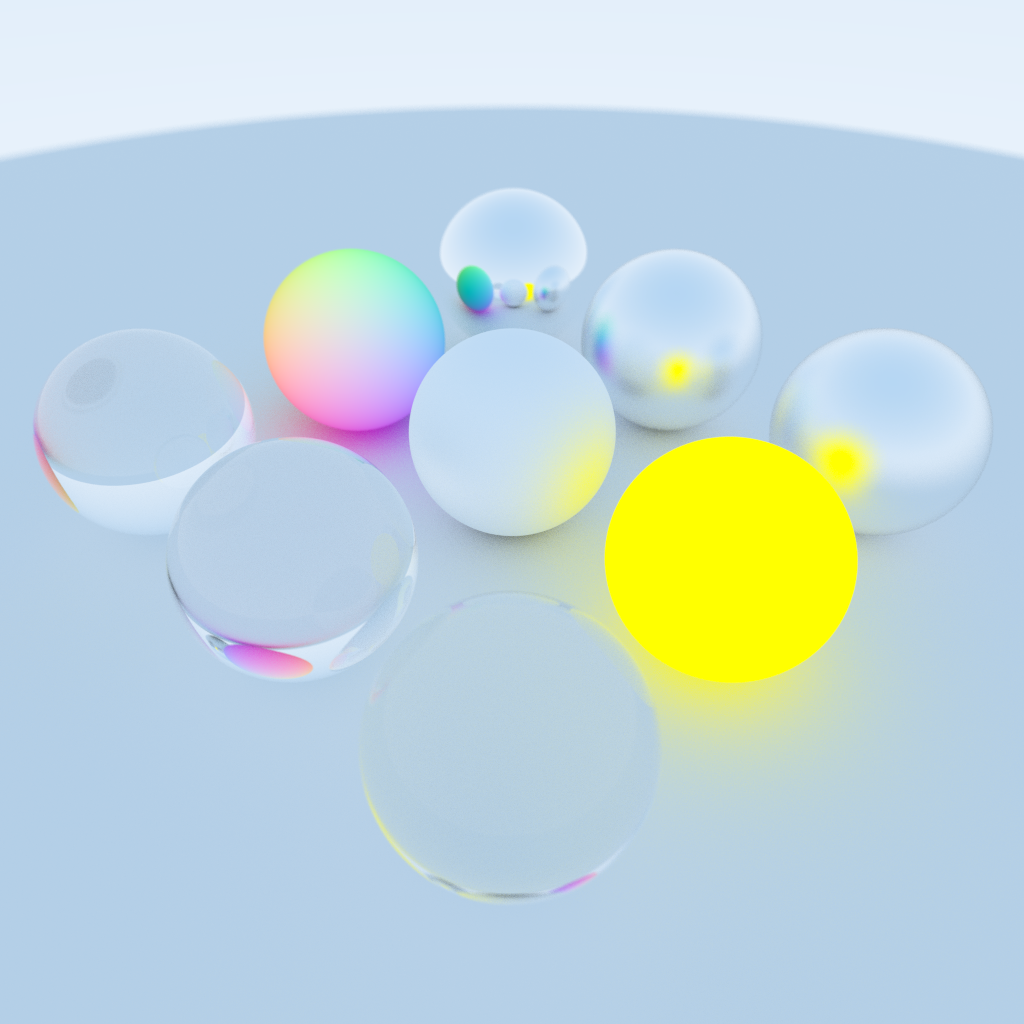
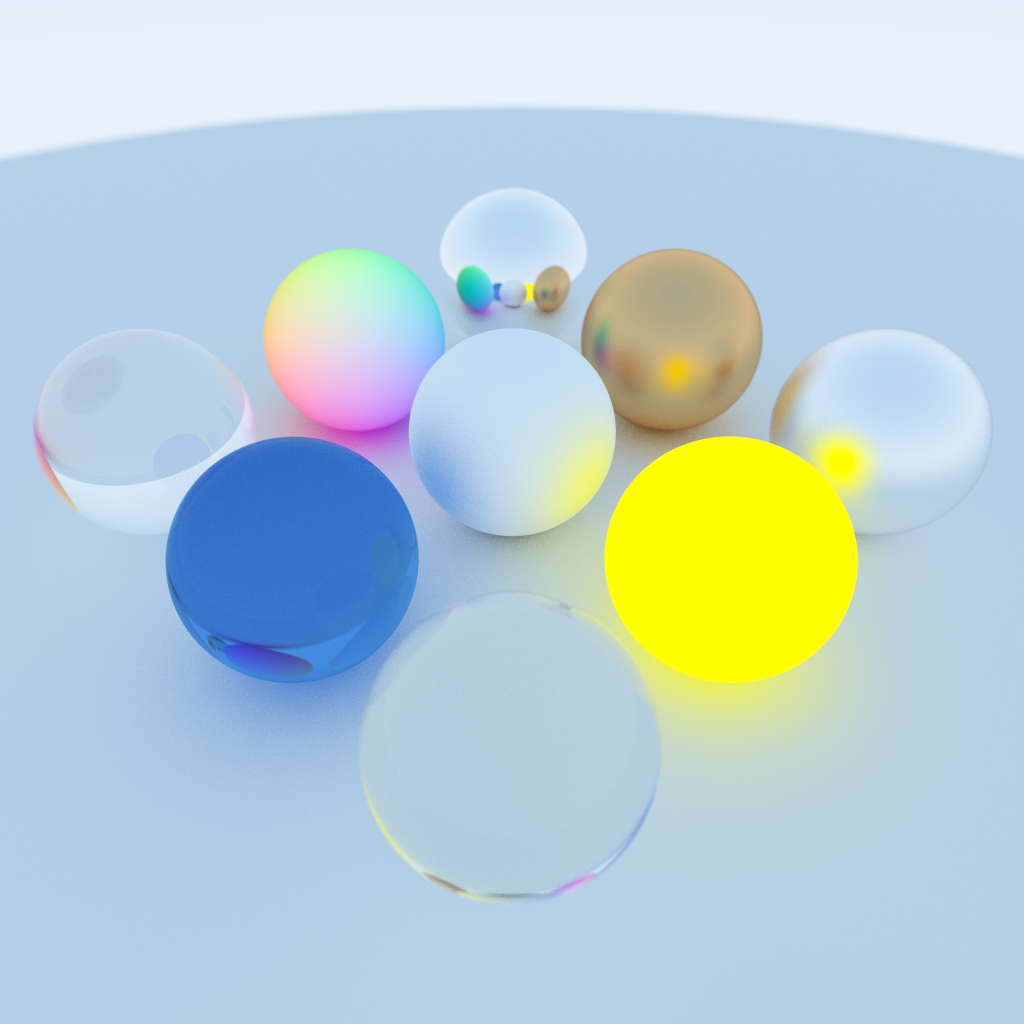
Added glass attenuation parameter.

diff --git a/src/main.rs b/src/main.rs
@@ -97,7 +97,7 @@ fn trace_ray(scene: &Scene, ray: &Ray, rng: &mut ThreadRng, depth: u32) -> Vec3 
                     albedo.z * c.z,
                 )
             },
-            Material::Glass(ior) => {
+            Material::Glass(attenuation, ior) => {
                 let mut refraction_ratio = ior;
                 let mut normal = hit.n;
                 if dot(&ray.d, &hit.n) < 0.0 {
@@ -135,9 +135,9 @@ fn trace_ray(scene: &Scene, ray: &Ray, rng: &mut ThreadRng, depth: u32) -> Vec3 
                 new_ray.o.z += 0.001 * new_ray.d.z;
                 let c = trace_ray(scene, &new_ray, rng, depth + 1);
                 Vec3::new(
-                    1.0 * c.x,
-                    1.0 * c.y,
-                    1.0 * c.z,
+                    attenuation.x * c.x,
+                    attenuation.y * c.y,
+                    attenuation.z * c.z,
                 )
             },
             Material::Light(color) => {
@@ -212,16 +212,16 @@ fn main() {
         Sphere::new(Vec3::new(0.0, -100.0, 0.0), 99.0, Material::Diffuse(Vec3::new(0.9, 0.9, 0.9))),
 
         Sphere::new(Vec3::new(-2.5, 0.0, -2.5), 1.0, Material::Metal(Vec3::new(1.0, 1.0, 1.0), 0.0)),
-        Sphere::new(Vec3::new(-2.5, 0.0, 0.0),  1.0, Material::Metal(Vec3::new(1.0, 1.0, 1.0), 0.1)),
+        Sphere::new(Vec3::new(-2.5, 0.0, 0.0),  1.0, Material::Metal(Vec3::new(0.9, 0.6, 0.3), 0.1)),
         Sphere::new(Vec3::new(-2.5, 0.0, 2.5),  1.0, Material::Metal(Vec3::new(1.0, 1.0, 1.0), 0.2)),
 
         Sphere::new(Vec3::new(0.0, 0.0, -2.5),  1.0, Material::Normal),
         Sphere::new(Vec3::new(0.0, 0.0, 0.0),   1.0, Material::Diffuse(Vec3::new(1.0, 1.0, 1.0))),
         Sphere::new(Vec3::new(0.0, 0.0, 2.5),   1.0, Material::Light(Vec3::new(1.0, 1.0, 0.0))),
 
-        Sphere::new(Vec3::new(2.5, 0.0, -2.5),  1.0, Material::Glass(2.0)),
-        Sphere::new(Vec3::new(2.5, 0.0, 0.0),   1.0, Material::Glass(1.75)),
-        Sphere::new(Vec3::new(2.5, 0.0, 2.5),   1.0, Material::Glass(1.5)),
+        Sphere::new(Vec3::new(2.5, 0.0, -2.5),  1.0, Material::Glass(Vec3::new(1.0, 1.0, 1.0), 2.0)),
+        Sphere::new(Vec3::new(2.5, 0.0, 0.0),   1.0, Material::Glass(Vec3::new(0.3, 0.6, 0.9), 1.75)),
+        Sphere::new(Vec3::new(2.5, 0.0, 2.5),   1.0, Material::Glass(Vec3::new(1.0, 1.0, 1.0), 1.5)),
     );
     let scene = Arc::new(Scene::new(spheres));
     let camera = Arc::new(PerspectiveCamera::look_at(

diff --git a/src/scene.rs b/src/scene.rs
@@ -6,7 +6,7 @@ pub enum Material {
     Diffuse(Vec3),
     Metal(Vec3, f32 /* roughness */),
     Light(Vec3),
-    Glass(f32 /* ior */),
+    Glass(Vec3 /* attenuation */, f32 /* ior */),
     Normal,
 }
 
